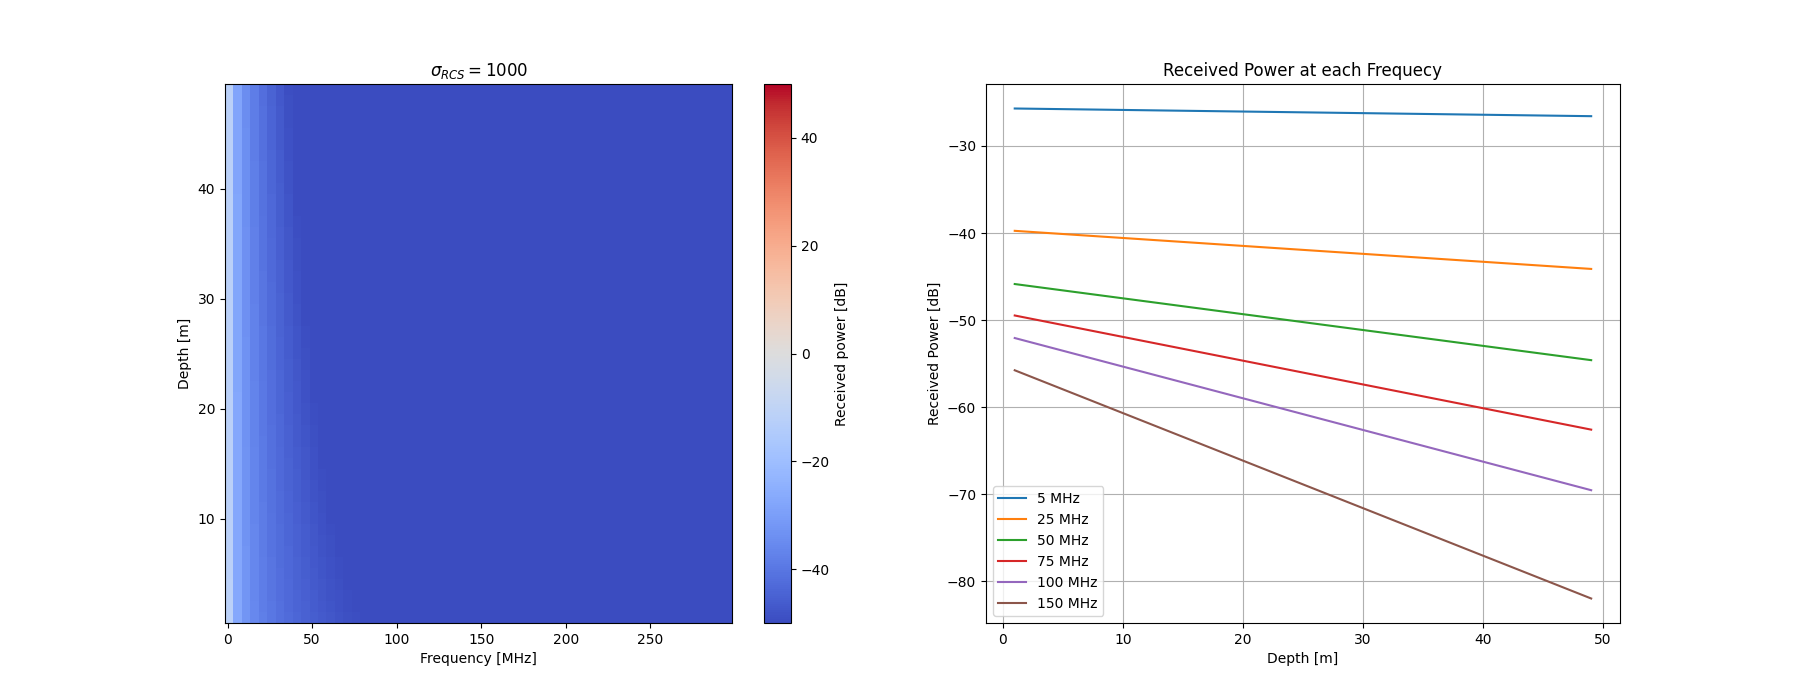
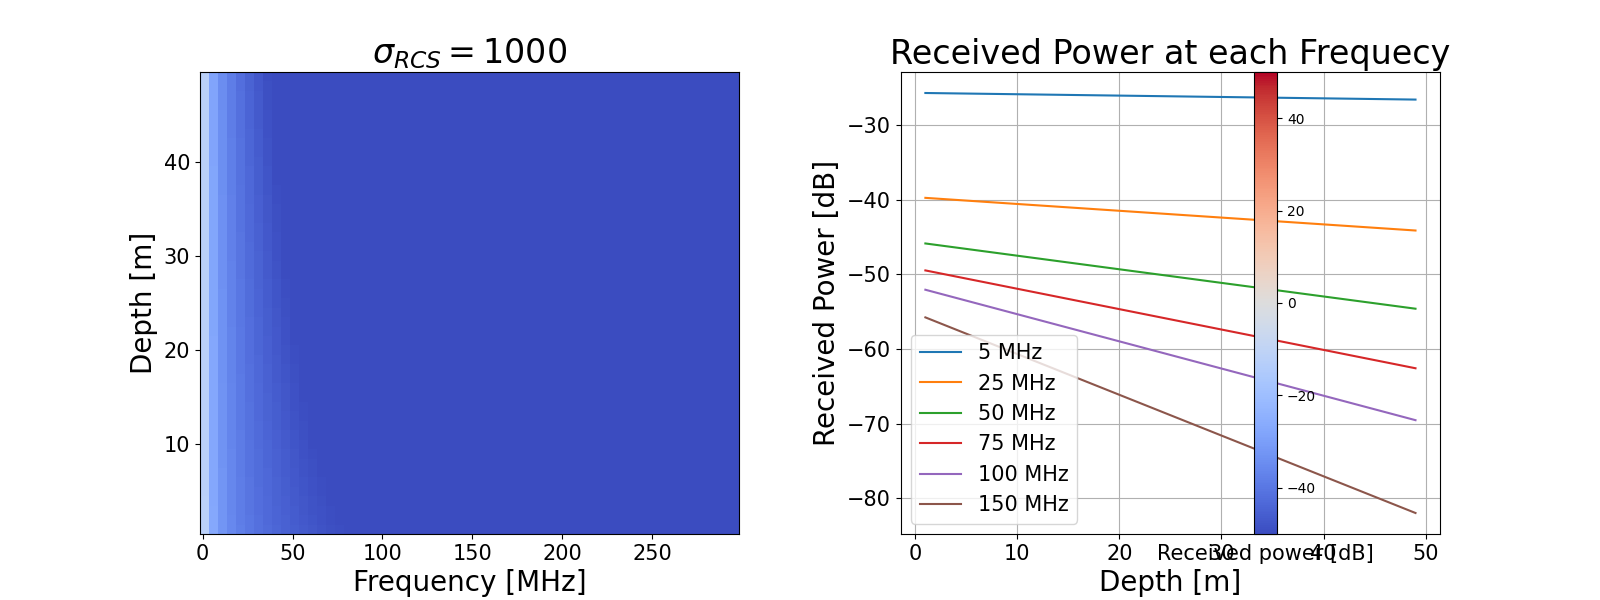
sigmaをsigmasに変更

diff --git a/recieved_power_dB.py b/recieved_power_dB.py
@@ -18,7 +18,8 @@ with open('params/'+params_file + '_params.json') as f:
 c = params['speed_of_light'] #真空中の光速[m/s]
 pi = np.pi  # 円周率π
 
-sigma = params['radar_cross_section']  # レーダー断面積[m^2]
+#sigma = params['radar_cross_section']  # レーダー断面積[m^2]
+sigmas = [10.0, 100.0, 1000.0]
 epsilon_r = params['epsilon_r']  # 地面の比誘電率
 epsilon_0 = params['epsilon_0']  # 真空雨の誘電率　
 loss_tangent = params['loss_tangent']  # 損失角（tan）
@@ -40,7 +41,7 @@ altitude = params['altitude'] #探査機の高度[m]
 
 
 # 受信パワーの計算
-def calc_Pr():  
+def calc_Pr(sigma):  
     #　反射係数・透過係数
     Gamma_r = (np.sqrt(epsilon_r) - np.sqrt(epsilon_0))**2 / (np.sqrt(epsilon_r) + np.sqrt(epsilon_0))**2
     Gamma_t = 1-Gamma_r
@@ -87,7 +88,7 @@ def calc_Pr():
 
 
     # アウトプットを保存するフォルダを作成
-    folder_name = "output_recieved_power/"+params_file+ \
+    folder_name = "output_recieved_power/"+params_file + '/' + str(altitude) + \
     '/RCS'+str(sigma) + '_noise'+str(noise_dB) + "_h"+str(altitude)
     if not os.path.exists(folder_name):
         os.makedirs(folder_name)
@@ -107,7 +108,6 @@ def calc_Pr():
     plt.figure(figsize=(18, 7))
 
 
-    #　Pr_dBのプロット
     plt.subplot(1, 2, 1)
     plt.pcolormesh(f_mesh, R_mesh, Pr_detectability, cmap='coolwarm', shading='auto', norm=Normalize(vmin= -50, vmax=50))
 
@@ -116,6 +116,7 @@ def calc_Pr():
     plt.ylabel('Depth [m]', size = 20)
     cbar = plt.colorbar(label='Received power [dB]')
     cbar.ax.tick_params(labelsize=16)
+    plt.tick_params(axis='both', labelsize=15)
 
 
 
@@ -137,6 +138,7 @@ def calc_Pr():
 
     plt.subplots_adjust(wspace=0.2)
     plt.show()
+
 
 
 calc_Pr()
